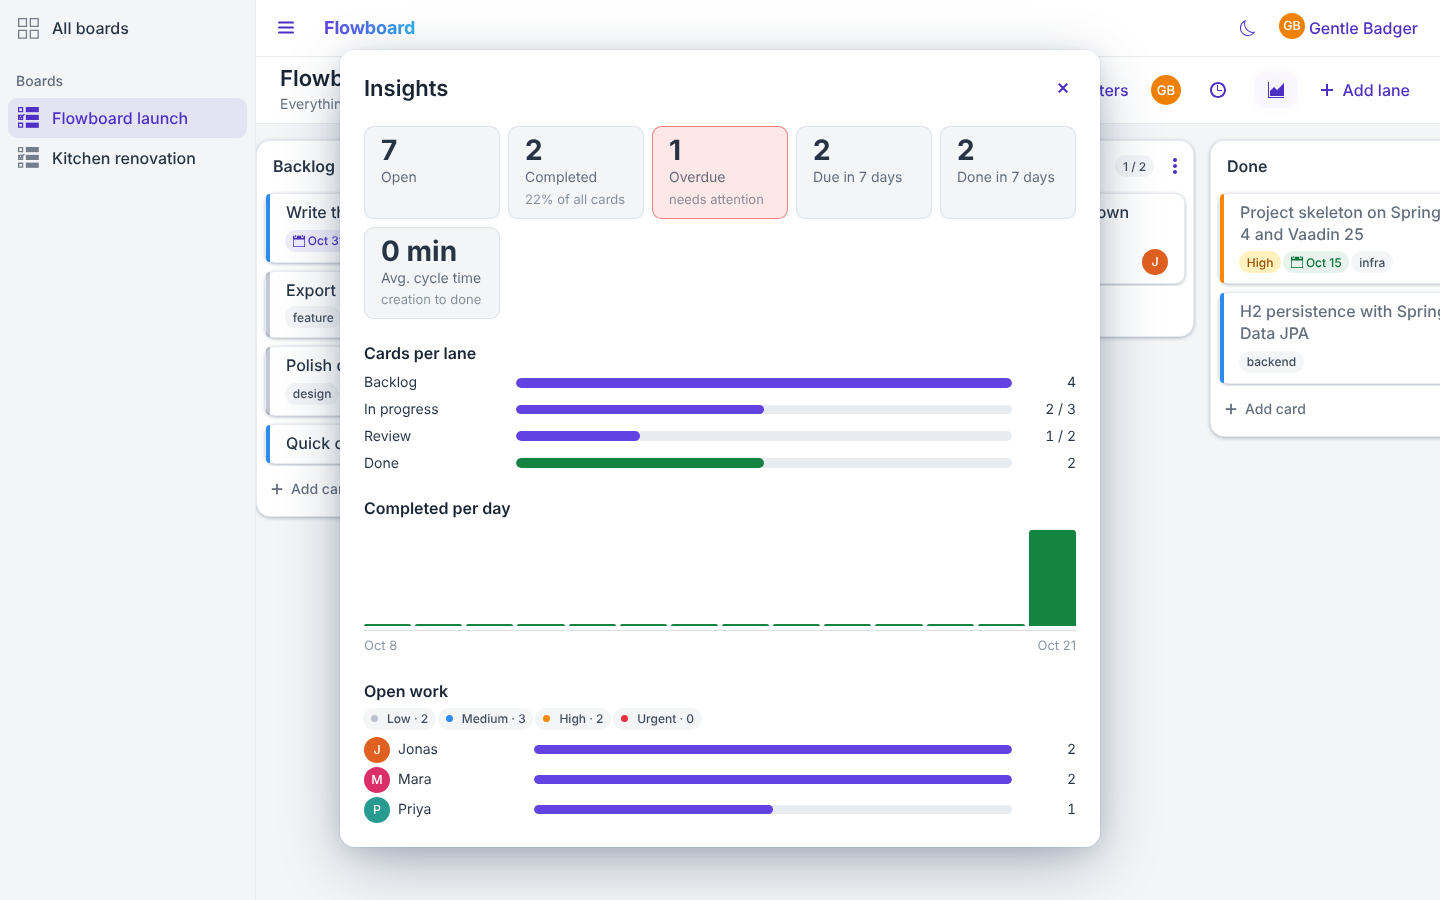
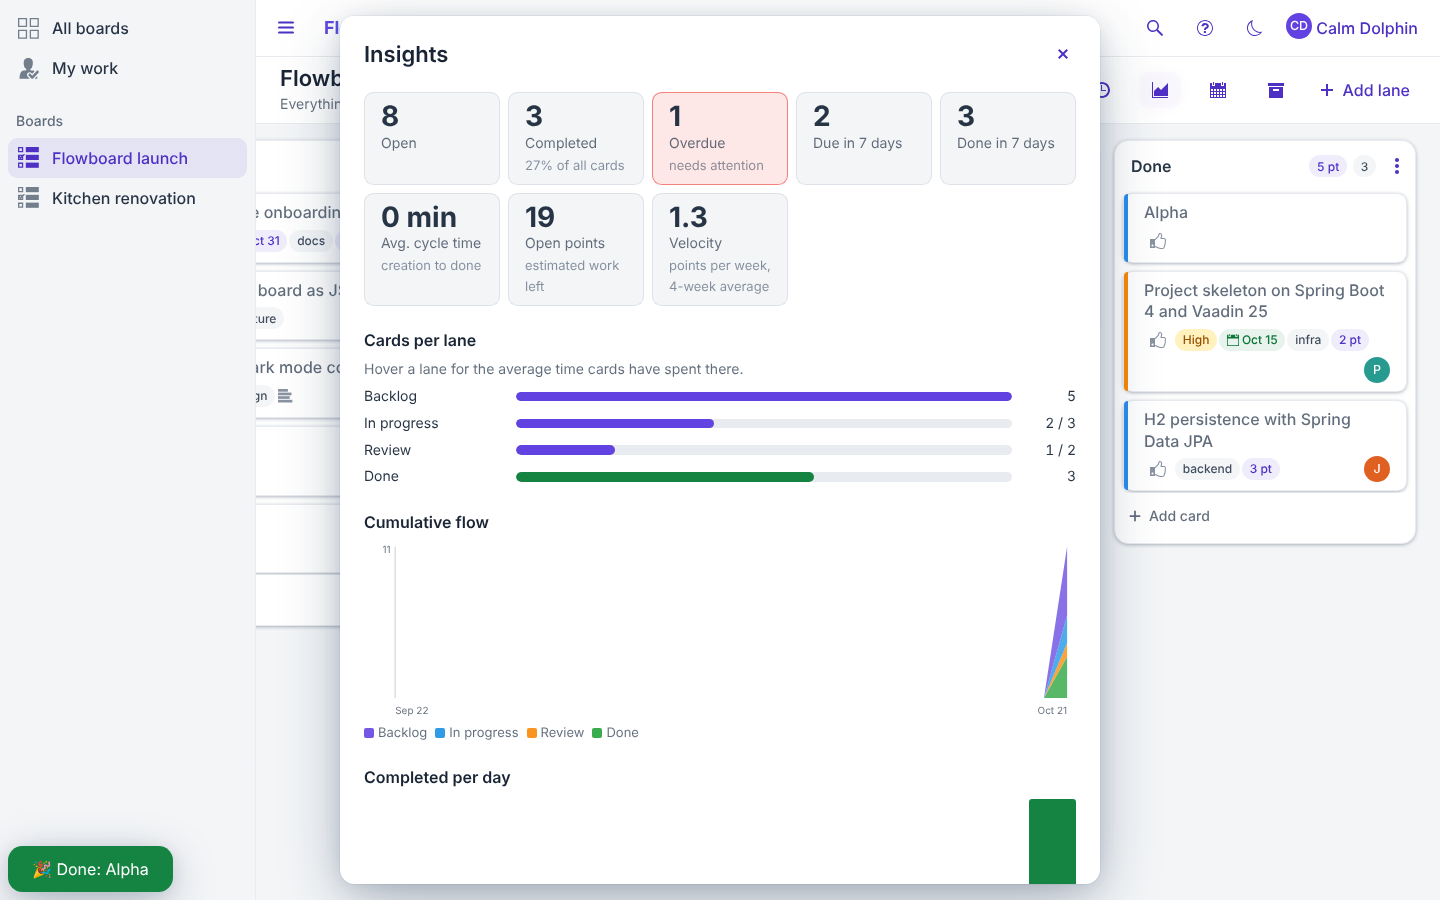
Show the cumulative flow diagram only with two recorded days
A single recorded day drew a spike; the chart now waits for a trend.
Also adds the new screenshots and features to the README.

Claude-Session: https://claude.ai/code/session_01MrvthHf1AzktnPcG6NF27K

diff --git a/src/main/java/dev/gatzka/flowboard/service/FlowSnapshotService.java b/src/main/java/dev/gatzka/flowboard/service/FlowSnapshotService.java
@@ -93,8 +93,10 @@ public class FlowSnapshotService {
         LocalDate from = today.minusDays(days - 1L);
         List<Lane> boardLanes = lanes.findAllByBoardIdOrderByPositionAsc(boardId);
         Map<Long, Map<LocalDate, Integer>> byLane = new HashMap<>();
+        java.util.Set<LocalDate> recorded = new java.util.HashSet<>();
         for (LaneDailyCount row : counts.findAllByBoardIdAndDayGreaterThanEqualOrderByDayAsc(boardId, from)) {
             byLane.computeIfAbsent(row.getLaneId(), id -> new HashMap<>()).put(row.getDay(), row.getCards());
+            recorded.add(row.getDay());
         }
         List<LocalDate> dayList = new ArrayList<>();
         for (LocalDate day = from; !day.isAfter(today); day = day.plusDays(1)) {
@@ -111,6 +113,6 @@ public class FlowSnapshotService {
             }
             series.add(new Series(lane.getName(), lane.isDone(), List.copyOf(values)));
         }
-        return new CumulativeFlow(List.copyOf(dayList), List.copyOf(series));
+        return new CumulativeFlow(List.copyOf(dayList), List.copyOf(series), recorded.size());
     }
 }

diff --git a/src/main/java/dev/gatzka/flowboard/domain/CumulativeFlow.java b/src/main/java/dev/gatzka/flowboard/domain/CumulativeFlow.java
@@ -7,14 +7,16 @@ import java.util.List;
  * Daily card counts per lane over a period, aligned so every series has one value per day.
  *
  * @param series lanes in board order
+ * @param recordedDays how many of the days actually have a recorded value (the rest are carried forward)
  */
-public record CumulativeFlow(List<LocalDate> days, List<Series> series) {
+public record CumulativeFlow(List<LocalDate> days, List<Series> series, int recordedDays) {
 
     public record Series(String laneName, boolean done, List<Integer> counts) {
     }
 
+    /** A diagram needs at least two recorded days to show a trend rather than a spike. */
     public boolean hasEnoughData() {
-        return days.size() >= 2 && series.stream().anyMatch(s -> s.counts().stream().anyMatch(count -> count > 0));
+        return recordedDays >= 2 && series.stream().anyMatch(s -> s.counts().stream().anyMatch(count -> count > 0));
     }
 
     /** Highest stacked total on any day, at least 1 so charts always have a scale. */

diff --git a/src/test/java/dev/gatzka/flowboard/service/FlowSnapshotServiceTest.java b/src/test/java/dev/gatzka/flowboard/service/FlowSnapshotServiceTest.java
@@ -51,6 +51,8 @@ class FlowSnapshotServiceTest {
         assertThat(flow.series()).hasSize(4);
         assertThat(flow.series().getFirst().counts()).endsWith(2);
         assertThat(flow.series().getLast().done()).isTrue();
+        assertThat(flow.recordedDays()).isEqualTo(1);
+        assertThat(flow.hasEnoughData()).as("one day is a spike, not a trend").isFalse();
     }
 
     @Test
@@ -65,6 +67,7 @@ class FlowSnapshotServiceTest {
 
         assertThat(flow.series().getFirst().counts()).containsExactly(0, 3, 3, 3, 5, 5, 5);
         assertThat(flow.maxTotal()).isEqualTo(5);
+        assertThat(flow.recordedDays()).isEqualTo(2);
         assertThat(flow.hasEnoughData()).isTrue();
     }
 

diff --git a/src/test/java/dev/gatzka/flowboard/ui/board/CumulativeFlowChartTest.java b/src/test/java/dev/gatzka/flowboard/ui/board/CumulativeFlowChartTest.java
@@ -16,7 +16,8 @@ class CumulativeFlowChartTest {
                 List.of(LocalDate.of(2026, 10, 1), LocalDate.of(2026, 10, 2), LocalDate.of(2026, 10, 3)),
                 List.of(new Series("Backlog", false, List.of(3, 2, 2)),
                         new Series("Doing <wip>", false, List.of(1, 2, 1)),
-                        new Series("Done", true, List.of(0, 1, 3))));
+                        new Series("Done", true, List.of(0, 1, 3))),
+                3);
 
         String svg = CumulativeFlowChart.svg(flow, 400, 120);
 

diff --git a/README.md b/README.md
@@ -11,6 +11,8 @@ Java on top of Vaadin Flow's server push.
 | Live sync between two browsers | Card editor | Activity feed |
 |---|---|---|
 | ![Live sync](docs/live-sync.png) | ![Card editor](docs/card-editor.png) | ![Activity](docs/activity.png) |
+| Insights with cumulative flow | Calendar | Command palette |
+| ![Insights](docs/insights.png) | ![Calendar](docs/calendar.png) | ![Palette](docs/palette.png) |
 
 ## Features
 
@@ -31,7 +33,12 @@ Java on top of Vaadin Flow's server push.
 - **AI assistant** (optional, set `ANTHROPIC_API_KEY`): suggests checklist steps for a card, writes a
   standup summary of the board, and turns pasted meeting notes into cards for review.
 - **Story points**, lane point totals and velocity; **templates** for new boards; **archive** with
-  restore; a **calendar** of due dates; a cross-board **My work** view and **global search** (Ctrl+K).
+  restore; a **calendar** of due dates; a cross-board **My work** view and a **command palette** (Ctrl+K)
+  that searches every board, opens boards by name and runs actions.
+- **Flow analytics.** Card aging ("3 d here"), average time per lane, and a cumulative flow diagram
+  built from daily lane snapshots.
+- **Votes** on cards with "sort by votes" for backlogs, multi-line paste into a lane to create several
+  cards, and a little confetti when a card lands in a done lane.
 - **Persistent.** Boards live in a file-based H2 database under `./data`, so they survive restarts.
   The schema is managed with Flyway migrations and validated by Hibernate on startup. A demo board
   is seeded on the first start.
